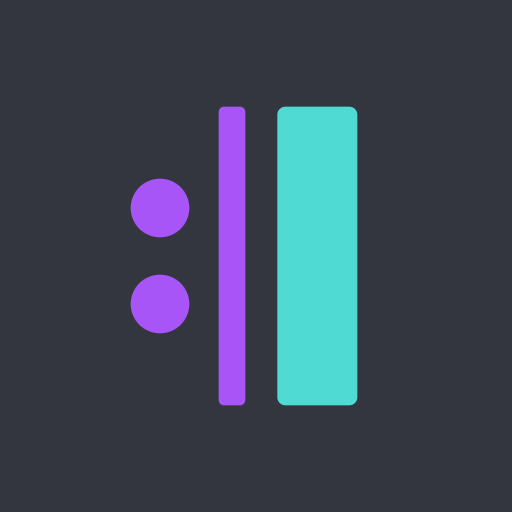
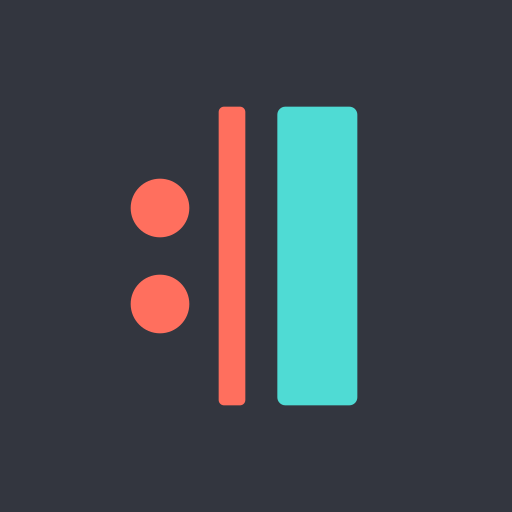
Repeat sign: recolour violet to coral (#281)

Changed region(s): [[0.4062, 0.1875, 0.5, 0.8125], [0.25, 0.5312, 0.375, 0.6562], [0.25, 0.3438, 0.375, 0.4688]]

diff --git a/scripts/lib/brand_sources.py b/scripts/lib/brand_sources.py
@@ -8,9 +8,9 @@ from pathlib import Path
 
 PALETTE_KEYS = (
     "reprise_teal",
-    "reprise_violet",
+    "reprise_coral",
     "reprise_teal_light",
-    "reprise_violet_light",
+    "reprise_coral_light",
     "reprise_plate",
 )
 HEX = re.compile(r"#[0-9A-F]{6}")
@@ -124,27 +124,27 @@ def render(palette):
     # The colour split was decided at dock size against the alternative that
     # swapped the two: teal on the thick barline reads farther because the
     # large field carries the brighter colour (7.13:1 on the plate against
-    # violet's 3.05:1), and violet stays legible as the accent on the dots and
+    # coral's 4.42:1), and coral stays legible as the accent on the dots and
     # the thin barline. Only the chosen split is generated — a second one kept
     # "for comparison" is a second mark to keep in step, and the comparison is
     # over.
     return {
         "reprise-mark.svg": mark_svg(
-            palette["reprise_violet"], palette["reprise_teal"],
+            palette["reprise_coral"], palette["reprise_teal"],
             "Teal carries the thick barline so the\n"
-            "       largest field holds the brighter colour; violet accents the dots\n"
+            "       largest field holds the brighter colour; coral accents the dots\n"
             "       and the thin barline."),
         "reprise-mark-light.svg": mark_svg(
-            palette["reprise_violet_light"], palette["reprise_teal_light"],
+            palette["reprise_coral_light"], palette["reprise_teal_light"],
             "The deeper pair keeps that hierarchy\n"
             "       while clearing the graphical-object contrast floor on light ground."),
         "reprise-mark-mono.svg": mono_svg(),
         "icon-plate.svg": plate_svg(palette["reprise_plate"]),
         "reprise-mark-16.svg": hinted_16_svg(
-            palette["reprise_violet"], palette["reprise_teal"]),
+            palette["reprise_coral"], palette["reprise_teal"]),
         "reprise-mark-16-mono.svg": hinted_16_mono_svg(),
         "reprise-icon-16.svg": hinted_16_icon_svg(
-            palette["reprise_violet"], palette["reprise_teal"],
+            palette["reprise_coral"], palette["reprise_teal"],
             palette["reprise_plate"]),
     }
 

diff --git a/crates/reprise-gnome/src/ui/radio/radio_view.rs b/crates/reprise-gnome/src/ui/radio/radio_view.rs
@@ -21,8 +21,8 @@ use crate::ui::playback::external_media::{ExternalMedia, RadioPhase};
 use crate::ui::playback::player_controller::PlayerController;
 use crate::ui::sidebar::sidebar_presentation::NavIcon;
 use crate::ui::source_empty_state::{SourceEmptyState, SourceEmptyStateCopy};
-use crate::ui::source_reveal::LoadedItemChange;
 use crate::ui::source_error_banner::SourceErrorBanner;
+use crate::ui::source_reveal::LoadedItemChange;
 use crate::ui::strings;
 
 #[path = "radio_failure_ui.rs"]
@@ -848,7 +848,10 @@ mod tests {
         view.shared.model.selection().set_selected(1);
         assert_eq!(view.shared.model.selection().selected(), 1);
 
-        on_external_snapshot(&view.shared, Some(connected_snapshot(bravo, "Artist — Song")));
+        on_external_snapshot(
+            &view.shared,
+            Some(connected_snapshot(bravo, "Artist — Song")),
+        );
         crate::ui::source_context_surface::settle_layout();
 
         assert_eq!(

diff --git a/scripts/lib/android_icon_resources.py b/scripts/lib/android_icon_resources.py
@@ -15,7 +15,7 @@ def colours(palette):
         f'    <color name="{name}">{value}</color>\n'
         for name, value in (
             ("reprise_teal", palette["reprise_teal"]),
-            ("reprise_violet", palette["reprise_violet"]),
+            ("reprise_coral", palette["reprise_coral"]),
             ("reprise_plate", palette["reprise_plate"]),
         )
     )

diff --git a/.superpowers/sdd/progress.md b/.superpowers/sdd/progress.md
@@ -736,3 +736,7 @@ Task logo-repeat-sign-generator: complete (this commit, base a9fba578ba, taught 
 Task logo-repeat-sign-android: complete with compile boundary (this commit, base 0a149a4669, generated three Android colour resources, A/B foregrounds at the exact +6 placement, active alias, solid background, monochrome and reusable tinted repeat-sign vectors, both adaptive-icon wrappers and ten 48/72/96/144/192 legacy PNGs; the missing-resource/theme contract was observed red before passing, XML parsed, PNG dimensions and circular alpha were measured, and Gradle processed resources through `generateDebugRFile` before `compileDebugKotlin` failed on the checkout's intentionally absent generated UniFFI package rather than either edited theme file; no Rust/UniFFI build was run)
 Task logo-repeat-sign-gate: complete (this commit, base 131cffe80d, replaced the obsolete 16-unit/fill/radius checks with exact 512px ink bounds, a 28px component gate plus 16/22/24/32 reports, context-correct contrast for both variants, 96-unit symbolic rules, both silhouette overlaps, alpha-weighted 66dp circle clipping and single-source palette ownership; the old gate first failed on its removed source, the new palette test then caught and removed two maintained Shell-script colour literals, and the final full gate plus generator check passed with x 24.562–66.938/y 20.062–75.938, 2 components at 16px and 4 from 22px, 0.000436 clipping with 4→4 components, and the measured contrasts recorded in the concise design specification)
 Task logo-repeat-sign-assets: complete (this commit, base 6df24e179d, committed the generated active-A desktop/web tree, nine exact hicolor PNG stages, scalable and symbolic SVGs, both composed icons, 40-file A and B mirrored comparison trees and a 63,359-byte self-contained compare sheet with 64 embedded PNGs; Meson now installs scalable plus all nine raster sizes and an in-worktree setup passed; rendered 8x inspection confirmed the measured 16px merge and 28px separation, while the outlined horizontal and vertical lockups remained balanced at mark-height 320; no GTK CSS or GResource manifest exists, so no unused GTK token or resource tree was invented; the full logo gate and independent generator check passed, the first Meson check directory was mistakenly created under `/tmp`, moved immediately into this worktree and replaced by the in-worktree run, no repository lock or coordination board existed, and no push was performed)
+
+# Repeat-sign coral palette
+
+Task logo-repeat-sign-coral: complete (commits 3ef5c34620 and this commit, base 8b69f127fb, renamed the sole maintained violet palette tokens to coral, regenerated every coloured desktop, web and Android output without changing geometry, preserved the symbolic, both monochrome sources, Android monochrome and plate background byte-for-byte, and recorded the coral-not-red range in the normative specification; the palette-only red phase failed on the obsolete `reprise_violet` lookup before the renamed pipeline passed, the four requested brand commands passed with coral/teal contrast 4.42/7.13 on the plate, 7.23/11.68 on the dark dock, 5.37/5.95 on white and 4.64/5.13 on the light ground, and dark-ground renders measured three separate coral components plus one teal component at both 16 and 24 px; format, strict workspace Clippy, the complete workspace suite and live audit with only accepted RUSTSEC-2024-0436 passed after the committed baseline rustfmt drift was isolated in 3ef5c34620; no real data, app, live desktop, push, repository lock, coordination board or file outside this worktree was touched)

diff --git a/docs/superpowers/specs/2026-08-04-repeat-sign-proportions.md b/docs/superpowers/specs/2026-08-04-repeat-sign-proportions.md
@@ -7,17 +7,23 @@ The 1:3 barline ratio prevents the mark reading as a rest, while the 5.5-unit
 dot-to-barline gap binds the four shapes without collapsing them.
 
 `data/brand/palette.toml` is the only maintained colour source. The mark puts
-`#A855F7` on the three small elements — the two dots and the thin barline — and
+`#FF6F5E` on the three small elements — the two dots and the thin barline — and
 `#4FDBD4` on the thick barline. The light-ground form replaces them with
-`#7C3AED` and `#00706B`. The carrier is a solid `#33363F` rounded 88-unit
+`#C4362A` and `#00706B`. The carrier is a solid `#33363F` rounded 88-unit
 square. Nothing uses a gradient.
 
 The split was chosen against the alternative that swapped the two colours,
 compared at dock size. Teal on the thick barline reads farther because the
 largest field carries the brighter colour: 7.13:1 against the carrier where
-violet manages 3.05:1. Violet still holds as the accent on the small elements.
+coral manages 4.42:1. Coral still holds as the accent on the small elements.
 Only the chosen split is generated — keeping the loser "for comparison" would
 mean a second mark to hold in step, and the comparison is over.
+
+Coral is deliberate rather than saturated red. `#EF4444` beside teal is
+reserved for interface error states and its lower lightness would outweigh the
+teal. Coral separates just as clearly without that connotation and sits closer
+to the teal in lightness. Any future adjustment stays within
+`#FF6F5E` … `#FF8A72`; it never moves toward red.
 
 At 512 px the rendered ink box is x 24.562–66.938 and y 20.062–75.938 viewBox
 units. Four components survive at 22, 24, 28 and 32 px. At 16 px the counter
@@ -50,9 +56,9 @@ The symbolic SVG keeps the 96-unit geometry: it is rendered at whatever size
 the shell asks for, and grid-fitting it to 16 would misfit every other size.
 A themed 16 px surface can use `reprise-mark-16-mono.svg`.
 
-Measured WCAG contrasts are 3.05 (`#A855F7`) and 7.13 (`#4FDBD4`) on the
-carrier, 4.99 and 11.68 on `#0a0a0e`, 5.70 (`#7C3AED`) and 5.95 (`#00706B`)
-on white, and 4.92 and 5.13 on `#eceef5`. All exceed the 3:1 graphical-object
+Measured WCAG contrasts are 4.42 (`#FF6F5E`) and 7.13 (`#4FDBD4`) on the
+carrier, 7.23 and 11.68 on `#0a0a0e`, 5.37 (`#C4362A`) and 5.95 (`#00706B`)
+on white, and 4.64 and 5.13 on `#eceef5`. All exceed the 3:1 graphical-object
 floor. The fixed Android `translate(6,6)` placement loses 0.000436 of rendered
 ink under the centred 66-dp circle and keeps all four components.
 
